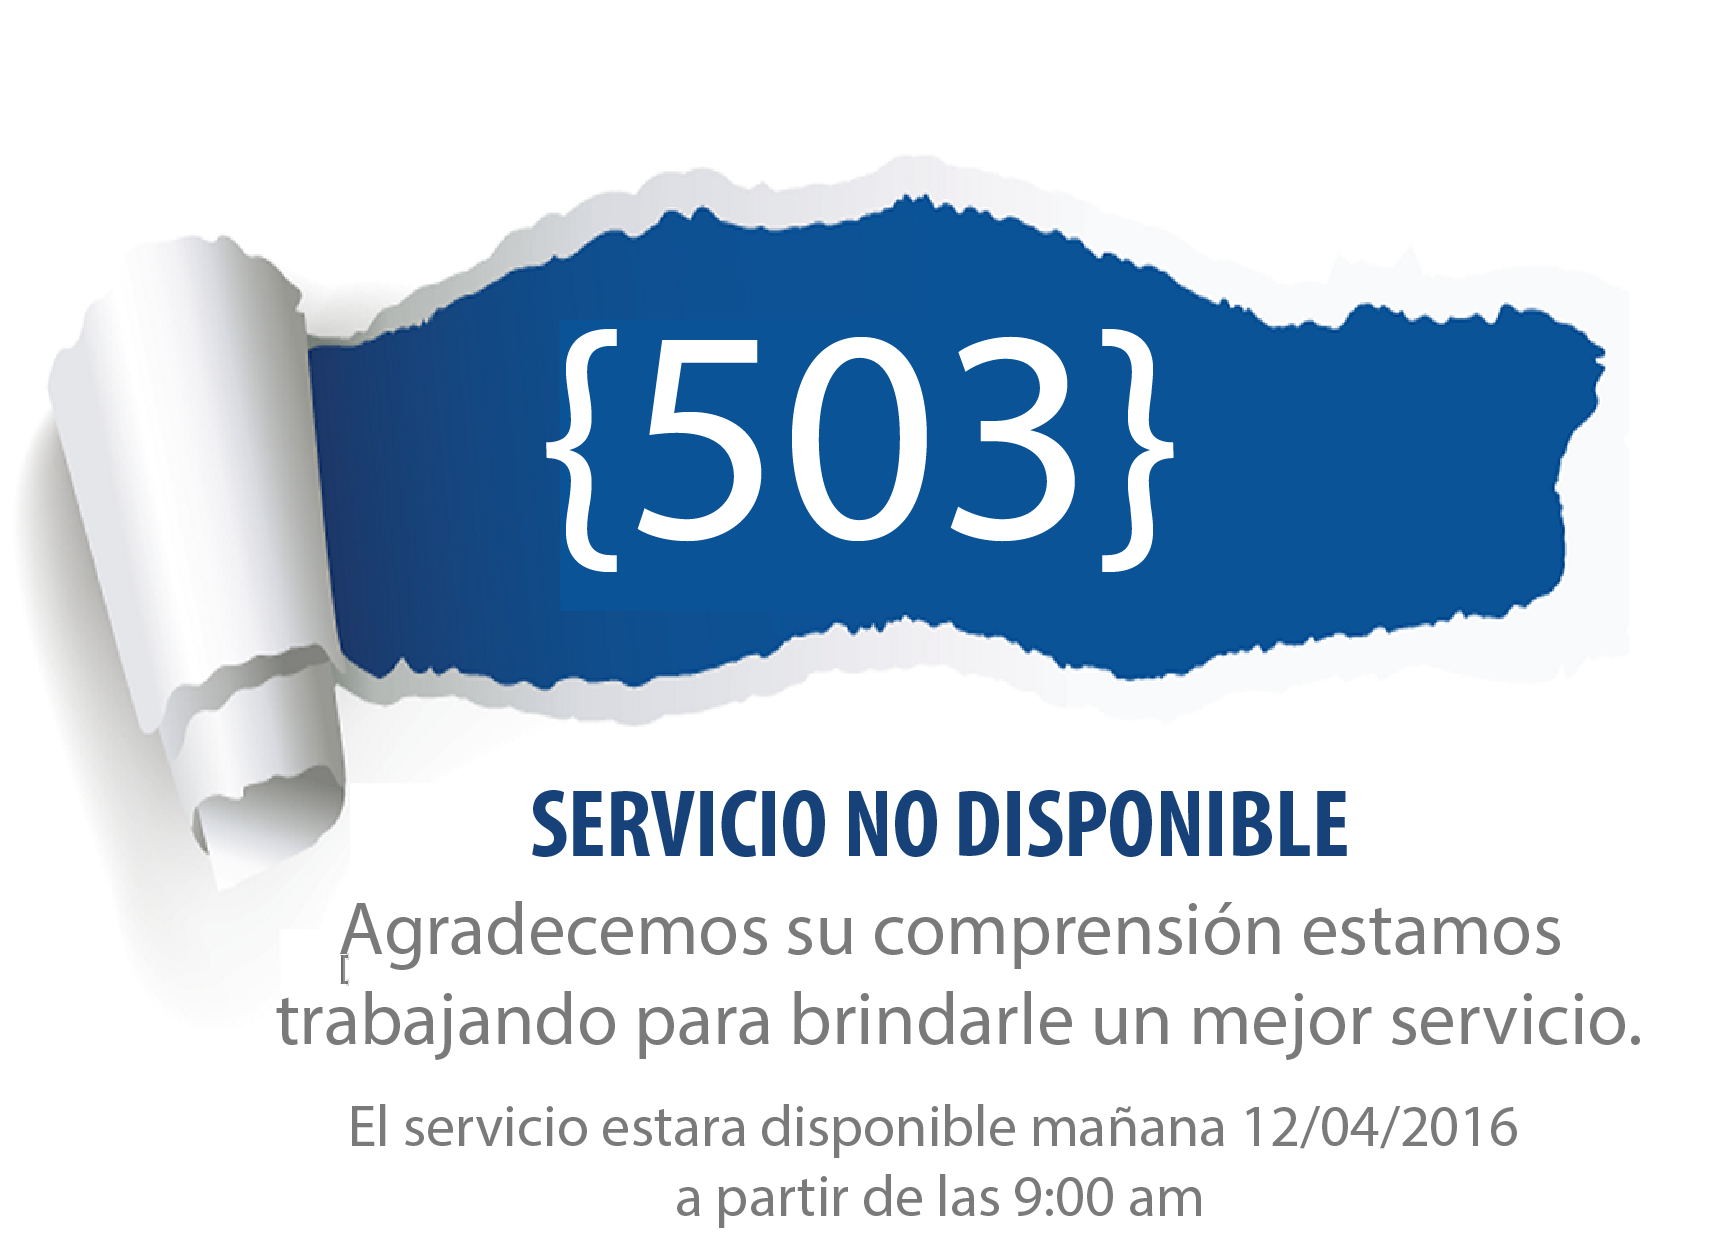
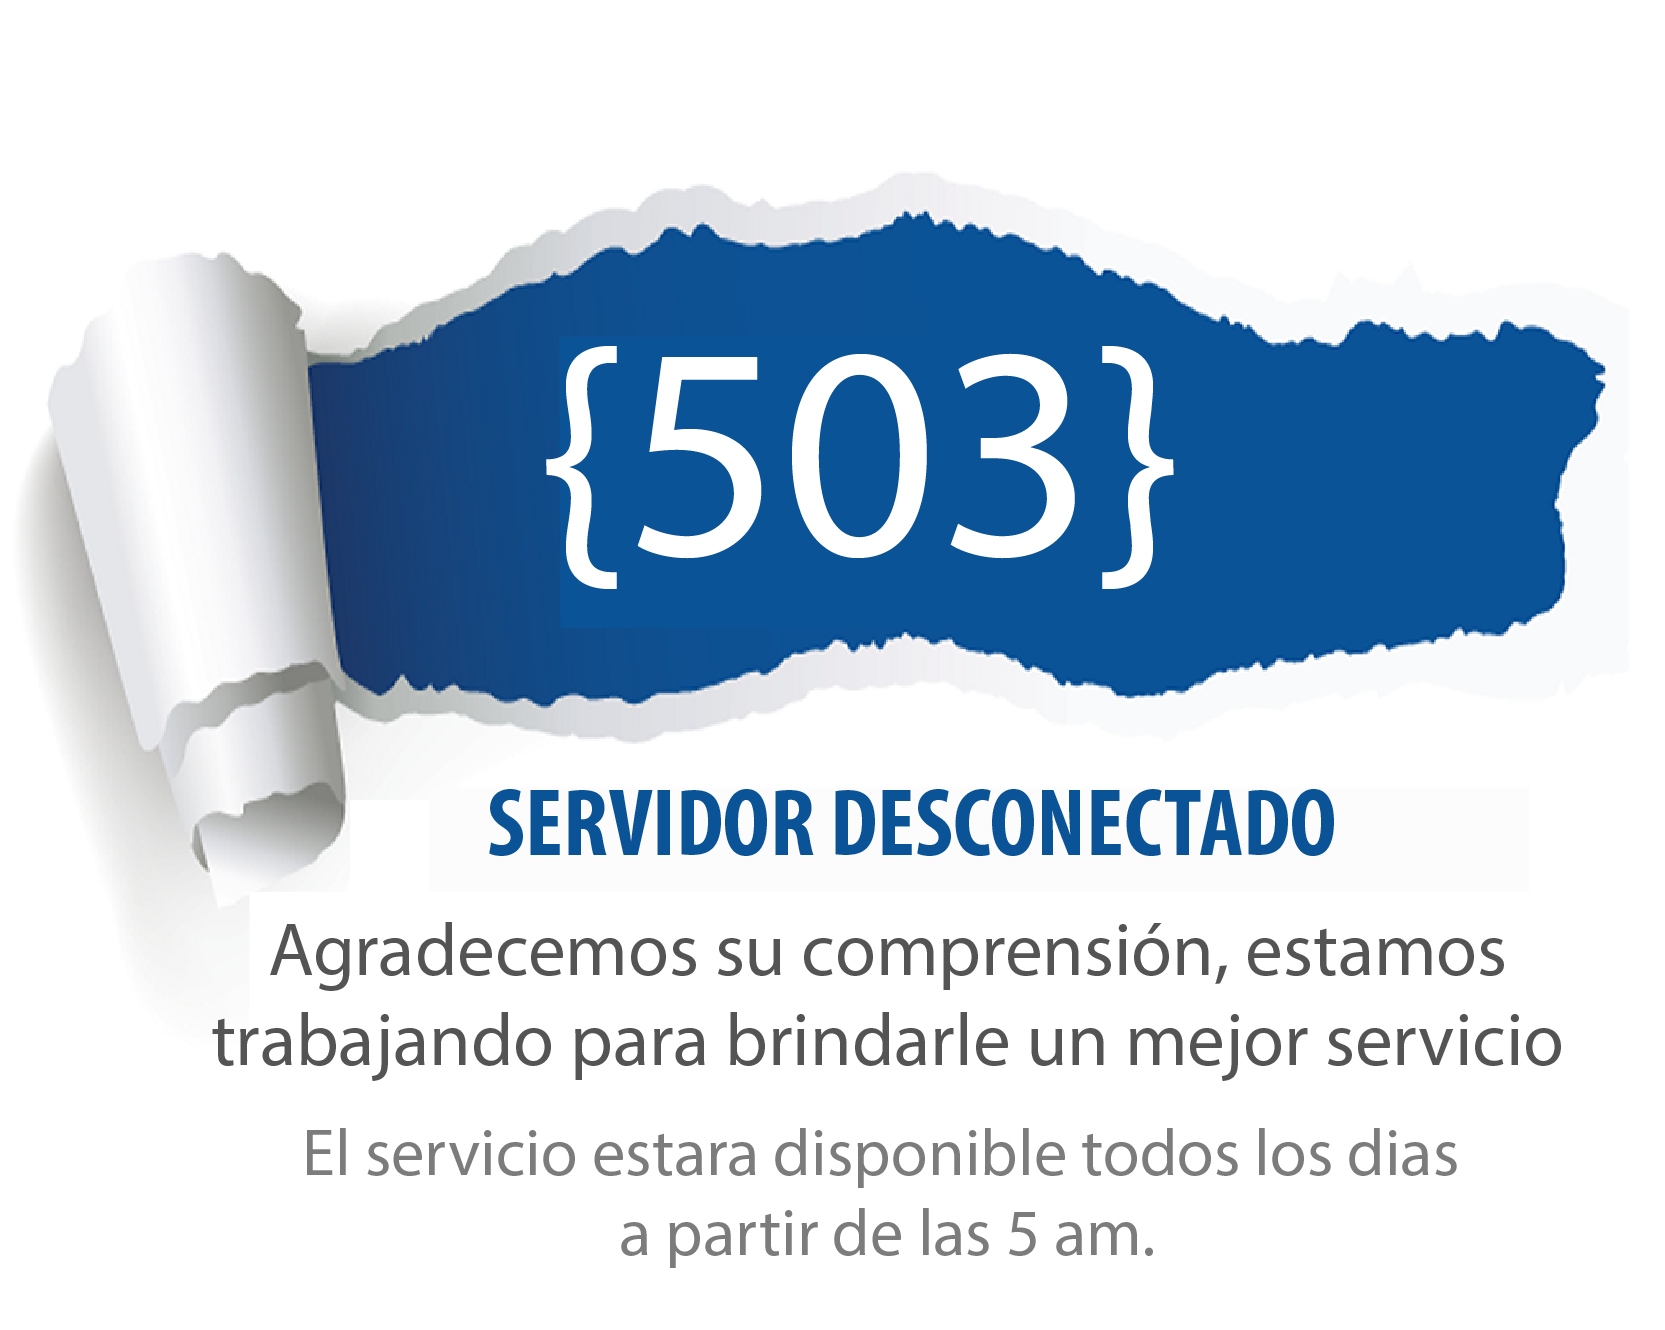
Disconnected page

diff --git a/client/app/disconnected.html b/client/app/disconnected.html
@@ -1,0 +1,58 @@
+<!doctype html>
+<html class="no-js">
+  <head>
+    <meta charset="utf-8">
+    <meta name="viewport" content="width=device-width, initial-scale=1, maximum-scale=1, user-scalable=no">
+    <title></title>
+    <meta name="description" content="">
+    <meta name="viewport" content="width=device-width">
+    <link rel="stylesheet" href="styles/bootstrap.css">
+    <!-- Place favicon.ico and apple-touch-icon.png in the root directory -->
+    <!-- build:css(.) styles/vendor.css -->
+    <!-- bower:css -->
+    <link rel="stylesheet" href="public/css/vendors.css" />
+    <link rel="stylesheet" href="styles/loadingbar.css">
+    <link rel="stylesheet" href="styles/bootstrap-buttons.css">
+    <link rel="stylesheet" href="styles/home-material.css">
+    <link rel="stylesheet" href="styles/app.css">
+    <!-- endbower -->
+    <!-- endbuild -->
+    <!-- build:css(.tmp) styles/main.css -->
+
+
+    <!-- endbuild -->
+  </head>
+  <body ng-app="unuApp">
+    <!--[if lt IE 7]>
+      <p class="browsehappy">You are using an <strong>outdated</strong> browser. Please <a href="http://browsehappy.com/">upgrade your browser</a> to improve your experience.</p>
+    <![endif]-->
+
+    <!-- Add your site or application content here -->
+<!--div ui-view class="anim-in-out anim-fade" data-anim-speed="1000"></div-->
+<div layout="row" layout-fill>
+
+  <div class="bg-login" layout="column" layout-fill>
+    <div class="ct-app">
+      <div class="ct-login z-depth-1">
+        <span class="fs-headline display-block">Sistema de Matrícula</span>
+        <span class="fs-caption display-block">Universidad Nacional de Ucayali</span>
+          <img src="/images/error-01.png"/>
+      </div>
+    </div>
+  </div>
+
+</div>
+    <!-- Google Analytics: change UA-XXXXX-X to be your site's ID -->
+     <!--script>
+       !function(A,n,g,u,l,a,r){A.GoogleAnalyticsObject=l,A[l]=A[l]||function(){
+       (A[l].q=A[l].q||[]).push(arguments)},A[l].l=+new Date,a=n.createElement(g),
+       r=n.getElementsByTagName(g)[0],a.src=u,r.parentNode.insertBefore(a,r)
+       }(window,document,'script','//www.google-analytics.com/analytics.js','ga');
+
+       ga('create', 'UA-XXXXX-X');
+       ga('send', 'pageview');
+    </script-->
+
+
+</body>
+</html>

diff --git a/expressjs.js b/expressjs.js
@@ -8,6 +8,8 @@ module.exports = function(config){
   var app = express();
   var routes=require('./routes')();
   var staticFolder = 'client/app/';
+  require('dotenv').config();
+
   //var morgan = require('morgan');
   // config express
   app.use(bodyParser.urlencoded({ extended: true }));
@@ -21,7 +23,14 @@ module.exports = function(config){
   app.use('/api',baucis());
   app.use(express.static(staticFolder));
   app.get('/',function(req,res){
-    res.sendFile(path.join(__dirname+'/'+staticFolder+'/index.html'));
+    var isOpenApp=process.env.OPENAPP|| true;
+    console.log('isOpenApp',isOpenApp);
+    if(isOpenApp){
+      res.sendFile(path.join(__dirname+'/'+staticFolder+'/index.html'));
+    }else{
+      res.sendFile(path.join(__dirname+'/'+staticFolder+'/disconnected.html'));
+    }
+
   });
   app.set('jwt-key',config.key_secret);
 
